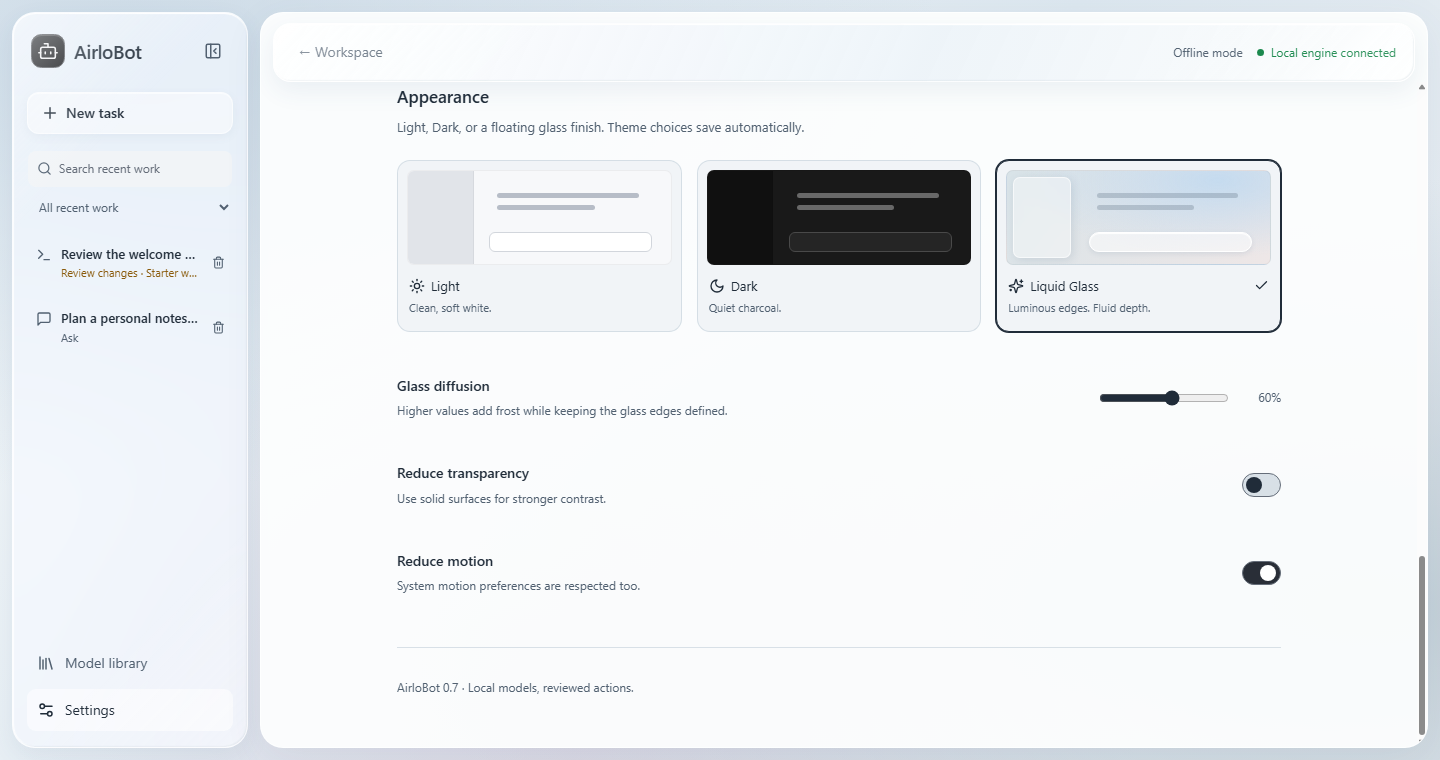
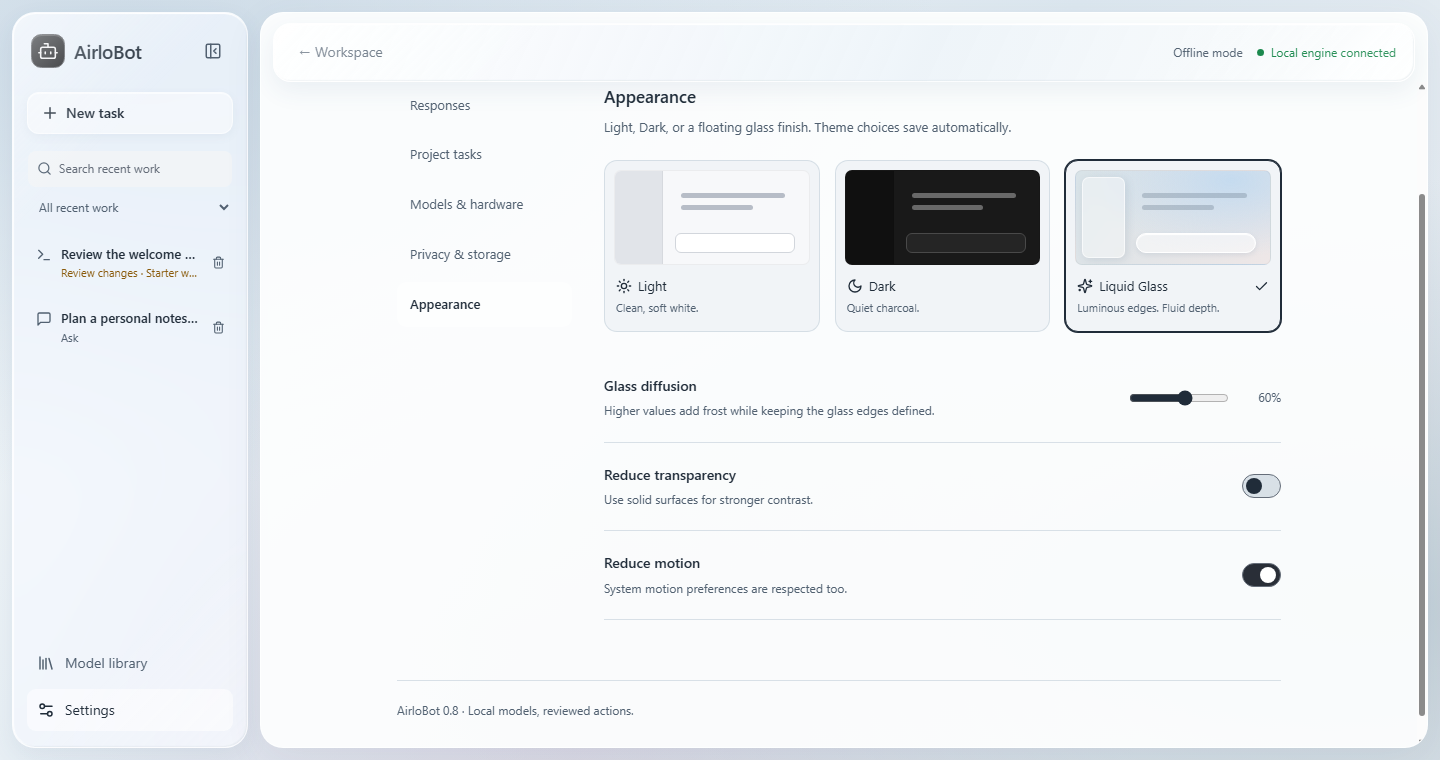
docs: refresh library guidance and settings screenshots

diff --git a/docs/USER_GUIDE.md b/docs/USER_GUIDE.md
@@ -1,6 +1,6 @@
 # AirloBot user guide
 
-AirloBot 0.7 is a standalone Windows desktop preview. See the [README](../README.md#get-started) for installation.
+AirloBot 0.8 is a standalone Windows desktop preview. See the [README](../README.md#get-started) for installation.
 
 ## Local engine and models
 
@@ -14,13 +14,13 @@ GGUF files stay in their original location, including on another drive. Already-
 
 The existing Gemma 4 E4B model is a compatibility target. Other models require supported architectures/templates; agents also need reliable tool calling. Downloading a model does not guarantee compatibility or enough available memory.
 
-**Settings → Privacy and local engine** offers context sizes from 4,096 to 65,536 tokens and Auto GPU / CPU acceleration. Default: 16,384 tokens. Project tools require at least 8,192. Higher values use more memory; the model's maximum also applies. Settings take effect at the next load/send. Unload releases memory; normal app shutdown stops the engine.
+**Settings → Models & hardware** offers context sizes from 4,096 to 65,536 tokens and Auto GPU / CPU acceleration. Default: 16,384 tokens. Project tools require at least 8,192. Higher values use more memory; the model's maximum also applies. Settings take effect at the next load/send. Unload releases memory; normal app shutdown stops the engine.
 
 Engine reference: [llama.cpp server](https://github.com/ggml-org/llama.cpp/blob/b11960/tools/server/README.md). Build provenance and the archive checksum are pinned in `scripts/runtime-lock.json`.
 
 ## Hardware recommendations and download choices
 
-Under **Settings → Device & model fit**, enable **Use my hardware for model recommendations**, then choose **Scan now**. The same controls are available inside the library's **Device check** panel. The preference is off by default. Enabling it does not scan automatically, including after restarting.
+Under **Settings → Models & hardware**, enable **Use my hardware for model recommendations**, then choose **Scan now**. The same controls are available inside the library's **Device check** panel. The preference is off by default. Enabling it does not scan automatically, including after restarting.
 
 Scanning reads the CPU description and logical processor count, available/total RAM, free storage at the library location, and graphics devices/memory reported by the bundled Vulkan engine. It does not examine personal files, collect device serial numbers, or load a model. No administrator access is required. If the engine or GPU information is unavailable, the app reports that limitation and manual model selection remains available.
 
@@ -30,7 +30,11 @@ Hardware snapshots exist only in app memory. They are not written to state files
 
 Fit labels use file size, context-cache metadata, configured context/acceleration, working-buffer allowance, and memory headroom. They distinguish likely fit, limited headroom, possible CPU use, insufficient disk space, unsupported file formats, and unknown estimates. Shared GPU memory is never added to RAM, and multi-GPU capacity is not summed. Warnings allow manual choice; the download performs its own live free-space check.
 
-The first estimator covers conventional attention caches in the llama, qwen2/qwen3, gemma/gemma2/gemma3, phi3, and mistral metadata families. Other architectures, including Gemma 4, show **Memory fit unknown** and remain usable if supported by the engine. Fit is not a benchmark or proof of tool-calling quality. For already-registered models without detailed metadata, use **Model details → Check model requirements**. Installed files are read locally without copying or changing their weights.
+The full estimator covers conventional attention caches in the llama, qwen2/qwen3, gemma/gemma2/gemma3, phi3, and mistral metadata families. Other architectures, including Gemma 4, receive limited guidance such as **Weights fit; runtime unverified** or **Weights exceed GPU budget**. These models remain usable if supported by the engine. Fit is not a benchmark or proof of tool-calling quality. For already-registered models without detailed metadata, use **Check model requirements** beside the model. Installed files are read locally without copying or changing their weights.
+
+The library shows a rough starting file-size target and a clear setup action when recommendations are off or a fresh scan is needed. Search results display monthly repository downloads, community likes, the latest repository update date, and the size range of supported individual GGUFs. A repository can contain many versions; its total storage is not the download size. Missing data is labeled unavailable, not zero.
+
+Results appear six at a time. **Compare memory fit** checks a starting version for each model on the current page using bounded header previews. **Stop comparison**, changing pages, or leaving the results stops queuing more checks; an in-flight read may finish. The version chooser checks its short list after a fresh scan and suggests a checked version with comfortable headroom when one is available. No choice is downloaded automatically. Popularity does not measure model quality or speed. Hugging Face documents its [download counting](https://huggingface.co/docs/hub/models-download-stats) and [metadata API](https://huggingface.co/docs/hub/api).
 
 Remote metadata reads are range-only, capped at 16 MiB of header per attempt (under 22 MiB across retries), with time and concurrency limits. Servers that ignore Range, malformed headers, or unsupported layouts produce an unknown estimate. Preview failures do not trigger a full model download. Actual downloads still pin a revision and verify file size and SHA-256 before registration.
 
@@ -118,6 +122,8 @@ Runtime data, model weights, native binaries, logs, backups, and private capture
 | Windows blocks a binary | Use your normal Windows/admin approval process; do not disable Windows protection. |
 
 ## Packaging and preferences
+
+Settings uses category panels: **Responses**, **Project tasks**, **Models & hardware**, **Privacy & storage**, and **Appearance**. Only one section is shown at a time. Switching categories preserves unsaved response edits and marks that category with a dot; use Save response preferences to keep them. Other controls save automatically as labeled.
 
 Run `npm run runtime:install`, then `npm run package`. Output: `release/standalone/AirloBot-win32-x64`, including engine licenses. Keep the entire folder together. Builds are unsigned, with no automatic updater. The existing launcher prefers `release/AirloBot-win32-x64`; deploy a reviewed build there or use source mode in a checkout without that installation.
 

diff --git a/README.md b/README.md
@@ -7,7 +7,7 @@
 <p align="center"><strong>An agent workspace powered by your local models.</strong></p>
 
 <p align="center">
-  Windows desktop · Local inference · Version 0.7 preview
+  Windows desktop · Local inference · Version 0.8 preview
 </p>
 
 <p align="center">
@@ -94,9 +94,13 @@ Task results stay in the main workspace. Open **Review changes** to see the chan
 
 Add an existing GGUF or find a public model on Hugging Face. AirloBot loads files directly and verifies downloads before adding them to the library. The library currently supports public, ungated, single-file GGUF models.
 
-Enable **Settings → Device & model fit → Use my hardware for model recommendations**, then choose **Scan now**. The library shows a few starting variants and keeps **All versions** available. Selecting a variant reads a bounded metadata preview before download. Fit labels are memory estimates, not speed or model-quality guarantees; incomplete metadata and unmodeled architectures show **Unknown**.
+Enable **Settings → Models & hardware → Use my hardware for model recommendations**, then choose **Scan now**. The library shows a few starting variants and keeps **All versions** available. Selecting a variant reads a bounded metadata preview before download. Fit labels are memory estimates, not speed or model-quality guarantees; incomplete metadata and unmodeled architectures receive limited, clearly labeled weight-only guidance.
 
-Snapshots expire for comparisons after 15 minutes, are never saved to disk or sent to Hugging Face, and clear on **Forget results**, opt-out, or app shutdown. Existing GGUFs retain their locations. Older library entries offer **Model details → Check model requirements** to read their metadata locally.
+Snapshots expire for comparisons after 15 minutes, are never saved to disk or sent to Hugging Face, and clear on **Forget results**, opt-out, or app shutdown. Existing GGUFs retain their locations. Older library entries offer **Check model requirements** to read their metadata locally.
+
+Search results show monthly repository downloads, community likes, the repository update date, and the range of supported single-file download sizes. Use **Compare memory fit** to check starting versions on the current page. The version chooser suggests a checked option with comfortable memory headroom when available. Popularity is not a speed or quality score.
+
+![Search results with popularity, file sizes, update dates, and checked memory fit using synthetic data](docs/media/library-search.png)
 
 ![Model download choices with a local memory-fit estimate, using synthetic model and hardware data](docs/media/library-downloads.png)
 
@@ -123,7 +127,7 @@ The bundled engine has remote access, built-in agent tools, request logging, and
 
 ## Current scope
 
-AirloBot 0.7 supports local text chat, persistent project conversations, folder creation, and reviewed UTF-8 text/Markdown/source edits up to 1 MiB. Helpers run sequentially, with up to two helpers per turn. New turns default to **100 shared model turns and 60 minutes**, both configurable. Word/PDF editing, terminal commands, project test execution, and autonomous writes are not available.
+AirloBot 0.8 supports local text chat, persistent project conversations, folder creation, and reviewed UTF-8 text/Markdown/source edits up to 1 MiB. Helpers run sequentially, with up to two helpers per turn. New turns default to **100 shared model turns and 60 minutes**, both configurable. Word/PDF editing, terminal commands, project test execution, and autonomous writes are not available.
 
 The app is tested on Windows. CI checks the service and production build on Windows and Linux; this does not imply a supported Linux desktop release. See the [user guide](docs/USER_GUIDE.md) for model requirements, exact limits, and troubleshooting.
 

diff --git a/docs/media/README.md b/docs/media/README.md
@@ -1,6 +1,6 @@
 # Product image provenance
 
-These five PNGs show the unmodified AirloBot 0.7 production renderer with fixed synthetic content. Conversation text, task results, project paths, hardware descriptions, model inventory, and connection status are demo fixtures. They do not claim a live model interaction or expose a user's saved state.
+These six PNGs show the unmodified AirloBot 0.8 production renderer with fixed synthetic content. Conversation text, task results, project paths, hardware descriptions, model inventory, popularity counts, dates, and connection status are demo fixtures. They do not claim a live model interaction or expose a user's saved state.
 
 | Image | View |
 | --- | --- |
@@ -9,6 +9,7 @@ These five PNGs show the unmodified AirloBot 0.7 production renderer with fixed 
 | `library-light.png` | Example local-model inventory in Light. |
 | `appearance-glass.png` | Appearance options and accessibility controls. |
 | `library-downloads.png` | Download chooser and estimated memory fit using synthetic hardware. |
+| `library-search.png` | Search metrics, per-file size range, and checked memory guidance. |
 
 Recreate from the repository root:
 
@@ -17,8 +18,9 @@ npm run build
 npx --no-install electron scripts/capture-readme.cjs
 npx --no-install electron scripts/library-ui-test.cjs
 Copy-Item test-results/library-ui/chooser-dark.png docs/media/library-downloads.png
+Copy-Item test-results/library-ui/search-dark.png docs/media/library-search.png
 ```
 
 The capture process uses its own ignored test profile, reads only the built app assets, and blocks every external network request. It does not read `data`, start an inference engine, or perform project file changes. No screenshot is taken from the user's running desktop app.
 
-Before publishing regenerated images, inspect all five for layout and unintended content. Do not replace these images with real chats, hardware profiles, local file paths, credentials, or personal project screenshots. Other private captures remain ignored by Git.
+Before publishing regenerated images, inspect all six for layout and unintended content. Do not replace these images with real chats, hardware profiles, local file paths, credentials, or personal project screenshots. Other private captures remain ignored by Git.
